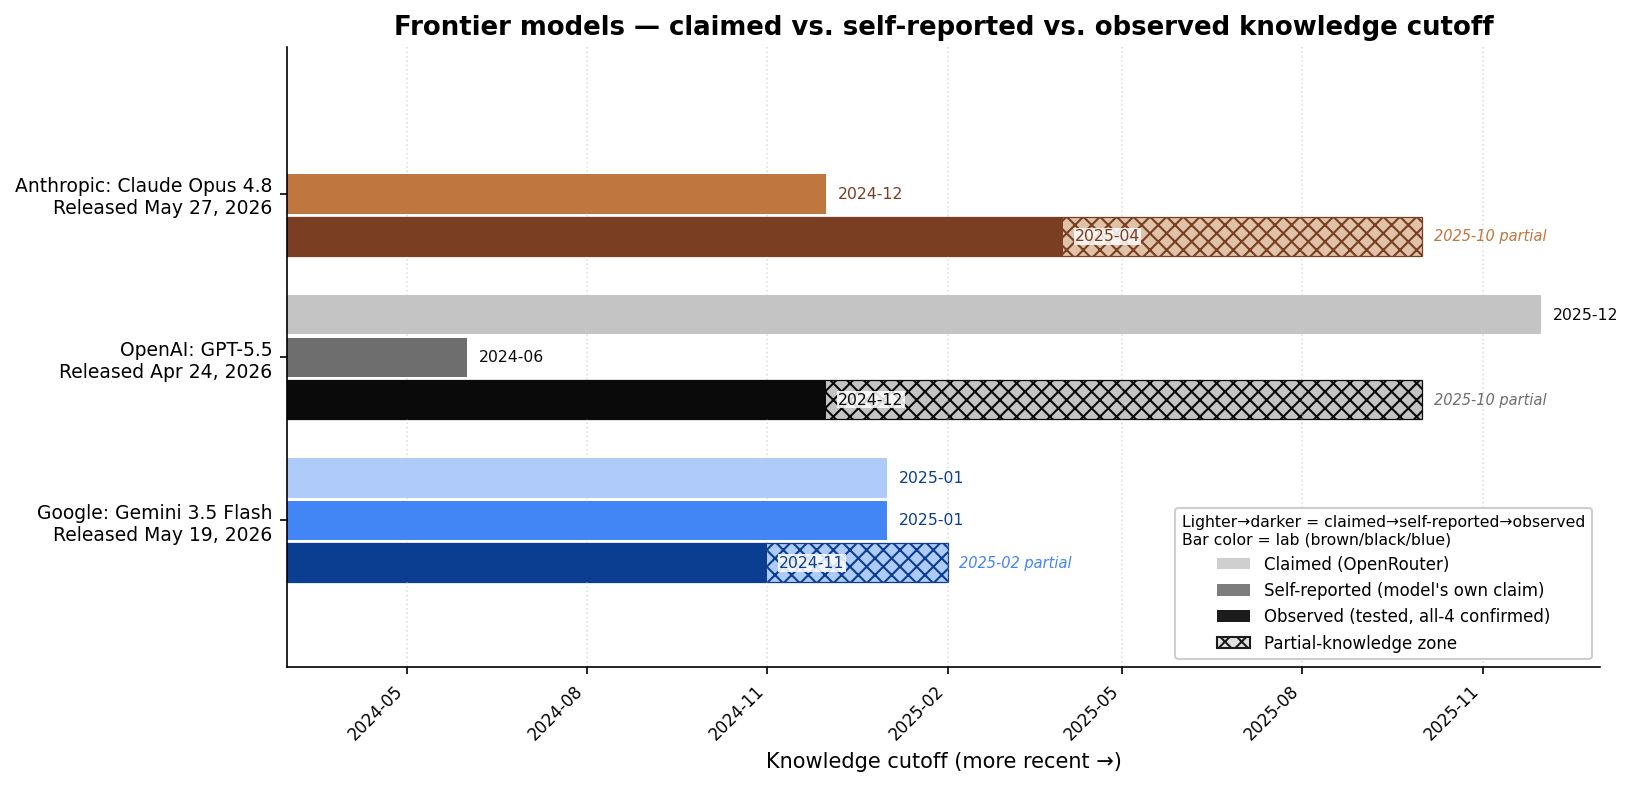
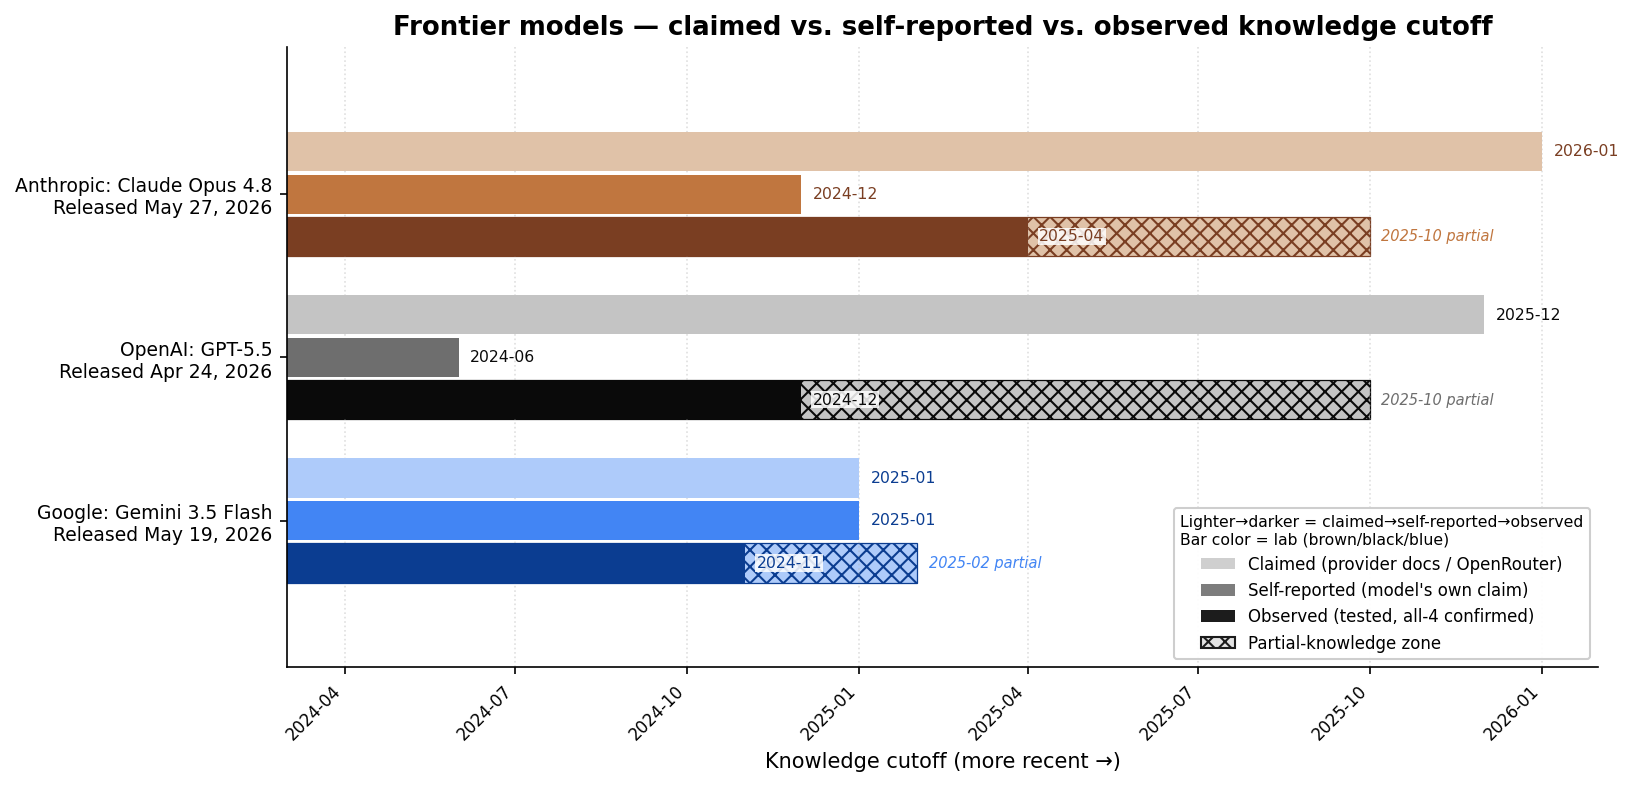
Add Anthropic's official claimed cutoff (Jan 2026) for Opus 4.8
Anthropic's docs "Latest models comparison" list Claude Opus 4.8 with a
Training Data cut-off of Jan 2026 (it's absent from OpenRouter's knowledge_cutoff
field and the HaoooWang repo). Add it as a provider-official override.

- frontier.py: OFFICIAL_CUTOFFS map -> claimed_cutoff per row (Anthropic = the
  Training Data cut-off per project convention).
- viz.py: claimed bar prefers claimed_cutoff, falls back to openrouter_cutoff;
  include it in x-axis range; legend -> "Claimed (provider docs / OpenRouter)".
- Now Opus 4.8 shows the full claim-vs-observed gap: claims 2026-01, tests 2025-04.

diff --git a/viz.py b/viz.py
@@ -174,7 +174,7 @@ def main() -> int:
     all_dates = []
     for r in rows:
         for v in (r.get("tested_cutoff"), r.get("openrouter_cutoff"),
-                  r.get("self_reported_cutoff")):
+                  r.get("claimed_cutoff"), r.get("self_reported_cutoff")):
             d = ym_to_date(v)
             if d:
                 all_dates.append(d)
@@ -194,7 +194,10 @@ def main() -> int:
     off = bh + 0.02      # vertical offset between adjacent bars
 
     for yi, r in zip(y, rows):
-        claimed = ym_to_date(r.get("openrouter_cutoff"))
+        # Claimed = provider-official cutoff if present (e.g. Anthropic's docs),
+        # else OpenRouter's published field.
+        claimed_ym = r.get("claimed_cutoff") or r.get("openrouter_cutoff")
+        claimed = ym_to_date(claimed_ym)
         self_rep = ym_to_date(r.get("self_reported_cutoff"))
         tested = ym_to_date(r.get("tested_cutoff"))
         mp_str = most_recent_partial(r)
@@ -220,7 +223,7 @@ def main() -> int:
         if claimed:
             ax.barh(y_claim, mdates.date2num(claimed) - base_num, left=base_num,
                     height=bh, color=c_claim, zorder=2)
-            ax.text(mdates.date2num(claimed) + 6, y_claim, r["openrouter_cutoff"],
+            ax.text(mdates.date2num(claimed) + 6, y_claim, claimed_ym,
                     va="center", ha="left", fontsize=7.5, color=t_claim)
 
         # --- Self-reported bar (model's own claim) ---
@@ -279,7 +282,7 @@ def main() -> int:
         # Bars are brand-colored (color = lab), so the legend explains the SHADE
         # ramp (shade = signal) with a neutral grey example.
         legend = [
-            Patch(facecolor="#cfcfcf", label="Claimed (OpenRouter)"),
+            Patch(facecolor="#cfcfcf", label="Claimed (provider docs / OpenRouter)"),
             Patch(facecolor="#7d7d7d", label="Self-reported (model's own claim)"),
             Patch(facecolor="#1c1c1c", label="Observed (tested, all-4 confirmed)"),
             Patch(facecolor="#e2e2e2", edgecolor="#1c1c1c", hatch="xxx",
@@ -291,7 +294,7 @@ def main() -> int:
                   title_fontsize=7.5)
     else:
         legend = [
-            Patch(facecolor=C_CLAIM, label="Claimed recency (OpenRouter)"),
+            Patch(facecolor=C_CLAIM, label="Claimed recency (provider docs / OpenRouter)"),
             Patch(facecolor=C_SELF, label="Self-reported recency (model's own claim)"),
             Patch(facecolor=C_OBS, label="Observed recency (tested, all-4 confirmed)"),
             Patch(facecolor=C_PARTIAL, edgecolor=C_OBS, hatch="xxx",

diff --git a/frontier.py b/frontier.py
@@ -39,6 +39,14 @@ FRONTIER = [
     "anthropic/claude-opus-4.8",
 ]
 
+# Provider-official claimed cutoffs not (yet) in the HaoooWang repo or OpenRouter's
+# `knowledge_cutoff` field. For Anthropic we use the *Training Data* cut-off per
+# the project convention. Source: Anthropic docs "Latest models comparison".
+# https://platform.claude.com/docs/en/about-claude/models/overview
+OFFICIAL_CUTOFFS = {
+    "anthropic/claude-opus-4.8": "2026-01",
+}
+
 
 def probe_one(client, lookup, grader, months, questions, catalog, slug) -> dict:
     m = catalog.get(slug, {"id": slug, "name": slug})
@@ -62,6 +70,7 @@ def probe_one(client, lookup, grader, months, questions, catalog, slug) -> dict:
         "model": slug, "name": name, "released": release_date(m),
         "repo_cutoff": lookup.match(m).cutoff,
         "openrouter_cutoff": openrouter_published_cutoff(m),
+        "claimed_cutoff": OFFICIAL_CUTOFFS.get(slug),
         "self_reported_cutoff": self_cut, "self_reported_raw": self_raw,
         "tested_cutoff": tested,
         "partial_months": [d["month"] for d in detail if d["status"] == "partial"],
@@ -85,6 +94,7 @@ def main() -> int:
         if slug in existing:
             r = dict(existing[slug])
             r["released"] = release_date(catalog.get(slug, {}))
+            r["claimed_cutoff"] = OFFICIAL_CUTOFFS.get(slug)
             print(f"  {slug}: reused (tested {r.get('tested_cutoff')}), released {r['released']}")
             rows.append(r)
         else: